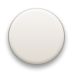
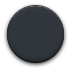
fixes for eink

diff --git a/cr3ui/src/cruireadwidget.cpp b/cr3ui/src/cruireadwidget.cpp
@@ -2385,7 +2385,8 @@ void CRUIReadWidget::ScrollModePageCache::draw(LVDrawBuf * dst, int pos, int x, 
             if (pages[k]->intersects(pos, pos + dy)) {
                 // draw fragment
                 int y0 = pages[k]->pos - pos;
-                pages[k]->drawbuf->DrawTo(glbuf, x, y + y0, 0, NULL);
+                CRUIDrawTo(pages[k]->drawbuf, glbuf, x, y + y0);
+                //pages[k]->drawbuf->DrawTo(glbuf, x, y + y0, 0, NULL);
             }
         }
         //glbuf->afterDrawing();
@@ -2899,15 +2900,15 @@ void CRUIReadWidget::PagedModePageCache::draw(LVDrawBuf * dst, int pageNumber, i
             if (direction > 0) {
                 //
                 if (pageAnimation == PAGE_ANIMATION_SLIDE) {
-                    page2->drawbuf->DrawTo(glbuf, x + 0, 0, 0, NULL);
-                    page->drawbuf->DrawTo(glbuf, x + 0 - ddx, 0, 0, NULL);
+                    CRUIDrawTo(page2->drawbuf, glbuf, x + 0, 0);
+                    CRUIDrawTo(page->drawbuf, glbuf, x + 0 - ddx, 0);
                     glbuf->GradientRect(x + dx - ddx, 0, x + dx - ddx + shadowdx, dy, shadowcl1, shadowcl2, shadowcl2, shadowcl1);
                 } else if (pageAnimation == PAGE_ANIMATION_SLIDE2) {
-                    page2->drawbuf->DrawTo(glbuf, x + 0 + dx - ddx, 0, 0, NULL);
-                    page->drawbuf->DrawTo(glbuf, x + 0 - ddx, 0, 0, NULL);
+                    CRUIDrawTo(page2->drawbuf, glbuf, x + 0 + dx - ddx, 0);
+                    CRUIDrawTo(page->drawbuf, glbuf, x + 0 - ddx, 0);
                 } else if (pageAnimation == PAGE_ANIMATION_FADE) {
-                    page->drawbuf->DrawTo(glbuf, x + 0, 0, 0, NULL);
-                    page2->drawbuf->DrawTo(glbuf, x + 0, 0, alpha << 16, NULL);
+                    CRUIDrawTo(page->drawbuf, glbuf, x + 0, 0);
+                    CRUIDrawTo(page2->drawbuf, glbuf, x + 0, 0, alpha);
                 } else if (pageAnimation == PAGE_ANIMATION_3D) {
                     CRUIReadWidget::PagedModePage * page_back = numPages == 1 ? findPageBack(pageNumber) : page2;
                     if (!page_back)
@@ -2920,17 +2921,17 @@ void CRUIReadWidget::PagedModePageCache::draw(LVDrawBuf * dst, int pageNumber, i
             } else if (direction < 0) {
                 //
                 if (pageAnimation == PAGE_ANIMATION_SLIDE) {
-                    page->drawbuf->DrawTo(glbuf, x + 0, 0, 0, NULL);
-                    page2->drawbuf->DrawTo(glbuf, x + 0 - dx + ddx, 0, 0, NULL);
+                    CRUIDrawTo(page->drawbuf, glbuf, x + 0, 0);
+                    CRUIDrawTo(page2->drawbuf, glbuf, x + 0 - dx + ddx, 0);
                     if (ddx < shadowdx)
                         shadowcl1 = (0xFF - ddx * 0x3F / shadowdx) << 24;
                     glbuf->GradientRect(x + 0 + ddx, 0, x + 0 + ddx + shadowdx, dy, shadowcl1, shadowcl2, shadowcl2, shadowcl1);
                 } else if (pageAnimation == PAGE_ANIMATION_SLIDE2) {
-                    page->drawbuf->DrawTo(glbuf, x + 0 + ddx, 0, 0, NULL);
-                    page2->drawbuf->DrawTo(glbuf, x + 0 - dx + ddx, 0, 0, NULL);
+                    CRUIDrawTo(page->drawbuf, glbuf, x + 0 + ddx, 0);
+                    CRUIDrawTo(page2->drawbuf, glbuf, x + 0 - dx + ddx, 0);
                 } else if (pageAnimation == PAGE_ANIMATION_FADE) {
-                    page->drawbuf->DrawTo(glbuf, x + 0, 0, 0, NULL);
-                    page2->drawbuf->DrawTo(glbuf, x + 0, 0, alpha << 16, NULL);
+                    CRUIDrawTo(page->drawbuf, glbuf, x + 0, 0);
+                    CRUIDrawTo(page2->drawbuf, glbuf, x + 0, 0, alpha);
                 } else if (pageAnimation == PAGE_ANIMATION_3D) {
                     CRUIReadWidget::PagedModePage * page_back = numPages == 1 ? findPageBack(nextPage) : page;
                     if (!page_back)
@@ -2947,7 +2948,9 @@ void CRUIReadWidget::PagedModePageCache::draw(LVDrawBuf * dst, int pageNumber, i
             // no animation
             if (page) {
                 // simple draw current page
-                page->drawbuf->DrawTo(glbuf, x, 0, 0, NULL);
+                //page->drawbuf->DrawTo(glbuf, x, 0, 0, NULL);
+                CRUIDrawTo(page->drawbuf, glbuf, x, 0);
+                //CRUIDrawTo(page->drawbufglbuf->DrawFragment(, 0, 0, page->drawbuf->GetWidth(), page->drawbuf->GetHeight(), x, 0, page->drawbuf->GetWidth(), page->drawbuf->GetHeight(), 0);
             }
         }
         //glbuf->afterDrawing();

diff --git a/cr3ui/src/crcoverpages.cpp b/cr3ui/src/crcoverpages.cpp
@@ -4,6 +4,8 @@
 #include "epubfmt.h"
 #include "pdbfmt.h"
 #include "lvqueue.h"
+#include "cruiwidget.h"
+#include "cruiconfig.h"
 
 //#define USE_GL_COVERPAGE_CACHE 0 // no GL context under this thread anyway
 
@@ -121,6 +123,10 @@ public:
 void CRDrawBookCover(LVDrawBuf * drawbuf, lString8 fontFace, CRDirEntry * book, LVImageSourceRef image, int bpp)
 {
     //CRLog::debug("drawBookCover called");
+    if (crconfig.einkMode) {
+        drawbuf->SetBackgroundColor(0xFFFFFF);
+        drawbuf->FillRect(0, 0, drawbuf->GetWidth(), drawbuf->GetHeight(), 0xFFFFFF);
+    }
     lString16 title = book->getTitle();
     lString16 authors = book->getAuthorNames(false);
     lString16 seriesName = book->getSeriesNameOnly();
@@ -157,6 +163,7 @@ void CRDrawBookCover(LVDrawBuf * drawbuf, lString8 fontFace, CRDirEntry * book, 
             LVDrawBookCover(grayBuf, image, fontFace, title, authors, seriesName, seriesNumber);
             image.Clear();
             grayBuf.DrawTo(drawbuf2, 0, 0, 0, NULL);
+            //CRUIDrawTo(&grayBuf, drawbuf2, 0, 0);
         }
         if (factor > 1) {
             drawbuf->DrawRescaled(drawbuf2, 0, 0, drawbuf->GetWidth(), drawbuf->GetHeight(), 0);
@@ -663,18 +670,19 @@ CRCoverImageCache::Entry * CRCoverImageCache::draw(CRCoverPageManager * _manager
         // has book template
         LVColorDrawBuf * buf = createDrawBuf(clientRect.width(), clientRect.height());
         buf->beforeDrawing();
-        CRDrawBookCover(buf, lString8("Arial"), _book, image, 32);
+        CRDrawBookCover(buf, lString8("Arial"), _book, image, crconfig.einkMode ? 4 : 32);
         buf->afterDrawing();
 
         lvRect rc(0, 0, buf->GetWidth(), buf->GetHeight());
         lUInt32 coverImageColor = getAvgColor(buf, rc, rc.width() / 10);
         correctColors(drawbuf, bookImageColor, coverImageColor, neutralColor);
 
+        //CRUIDrawTo(buf, drawbuf, clientRect.left, clientRect.top);
         buf->DrawTo(drawbuf, clientRect.left, clientRect.top, 0, NULL);
         delete buf;
     } else {
         // does not have book template
-        CRDrawBookCover(drawbuf, lString8("Arial"), _book, image, 32);
+        CRDrawBookCover(drawbuf, lString8("Arial"), _book, image, crconfig.einkMode ? 4 : 32);
     }
 
     drawbuf->afterDrawing();

diff --git a/cr3ui/src/cruimain.cpp b/cr3ui/src/cruimain.cpp
@@ -1027,16 +1027,20 @@ void CRUIMainWidget::draw(LVDrawBuf * buf) {
         //_popupBackground->DrawTo(buf, 0, 0, 0, NULL);
     } else {
         if (_animation.active) {
-            if (_animation.oldimage)
-                _animation.oldimage->DrawTo(buf, _animation.oldimagex, _pos.top, 0, NULL);
-            else {
+            if (_animation.oldimage) {
+                //_animation.oldimage->DrawTo(buf, _animation.oldimagex, _pos.top, 0, NULL);
+                CRUIDrawTo(_animation.oldimage, buf, _animation.oldimagex, _pos.top);
+                //buf->DrawFragment(_animation.oldimage, 0, 0, _animation.oldimage->GetWidth(), _animation.oldimage->GetHeight(), _animation.oldimagex, _pos.top, _animation.oldimage->GetWidth(), _animation.oldimage->GetHeight(), 0);
+            } else {
                 CRUIWidget * oldWidget = _history[_animation.oldpos]->getWidget();
                 oldWidget->layout(_pos.left + _animation.oldimagex, _pos.top, _pos.right + _animation.oldimagex, _pos.bottom);
                 oldWidget->draw(buf);
             }
-            if (_animation.newimage)
-                _animation.newimage->DrawTo(buf, _animation.newimagex, _pos.top, 0, NULL);
-            else {
+            if (_animation.newimage) {
+                //_animation.newimage->DrawTo(buf, _animation.newimagex, _pos.top, 0, NULL);
+                CRUIDrawTo(_animation.newimage, buf, _animation.newimagex, _pos.top);
+                //buf->DrawFragment(_animation.newimage, 0, 0, _animation.newimage->GetWidth(), _animation.newimage->GetHeight(), _animation.newimagex, _pos.top, _animation.newimage->GetWidth(), _animation.newimage->GetHeight(), 0);
+            } else {
                 CRUIWidget * newWidget = _history[_animation.newpos]->getWidget();
                 newWidget->layout(_pos.left + _animation.newimagex, _pos.top, _pos.right + _animation.newimagex, _pos.bottom);
                 newWidget->draw(buf);

diff --git a/cr3ui/src/cruiwidget.cpp b/cr3ui/src/cruiwidget.cpp
@@ -16,7 +16,11 @@ using namespace CRUI;
 #endif
 #include "cruiconfig.h"
 
+
 LVDrawBuf * CRUICreateDrawBuf(int dx, int dy, int bpp) {
+    if (crconfig.einkMode) {
+        return new LVGrayDrawBuf(dx, dy, 4);
+    }
 #if CRUI_USE_OPENGL == 1
     if (!crconfig.enableOpenGl) {
         CRLog::warn("OpenGL is disabled");
@@ -28,13 +32,15 @@ LVDrawBuf * CRUICreateDrawBuf(int dx, int dy, int bpp) {
         return new TiledGLDrawBuf(dx, dy, bpp, maxTextureSize, maxTextureSize);
     } else {
 #endif
-        if (crconfig.einkMode)
-            return new LVGrayDrawBuf(dx, dy, bpp > 16 ? 16 : bpp);
-        else
-            return new LVColorDrawBuf(dx, dy, bpp);
+        return new LVColorDrawBuf(dx, dy, bpp);
 #if CRUI_USE_OPENGL == 1
     }
 #endif
+}
+
+/// use dst->DrawFragment to implement DrawTo
+void CRUIDrawTo(LVDrawBuf * src, LVDrawBuf * dst, int x, int y, int alpha) {
+    dst->DrawFragment(src, 0, 0, src->GetWidth(), src->GetHeight(), x, y, src->GetWidth(), src->GetHeight(), alpha << 16);
 }
 
 CRUIWidget::CRUIWidget() : _state(0), _margin(UNSPECIFIED, UNSPECIFIED, UNSPECIFIED, UNSPECIFIED),

diff --git a/cr3ui/include/cruiwidget.h b/cr3ui/include/cruiwidget.h
@@ -287,5 +287,8 @@ void CRUICheckUpdateOptions(CRUIWidget * widget, bool & needLayout, bool & needR
 
 /// creates backbuffer for rendering in
 LVDrawBuf * CRUICreateDrawBuf(int dx, int dy, int bpp);
+/// use dst->DrawFragment to implement DrawTo
+void CRUIDrawTo(LVDrawBuf * src, LVDrawBuf * dst, int x, int y, int alpha = 0);
+
 
 #endif /* CRUIWIDGET_H_ */

diff --git a/cr3ui/src/cruiconfig.cpp b/cr3ui/src/cruiconfig.cpp
@@ -25,7 +25,7 @@ CRUIConfig::CRUIConfig() {
     uiFontFace = "Arial";
     touchMode = true;
     enableOpenGl = true;
-    einkMode = false;
+    einkMode = true;
     apiLevel = 0; // for Android only
     hasBattery = false;
     batteryLevel = 100;
